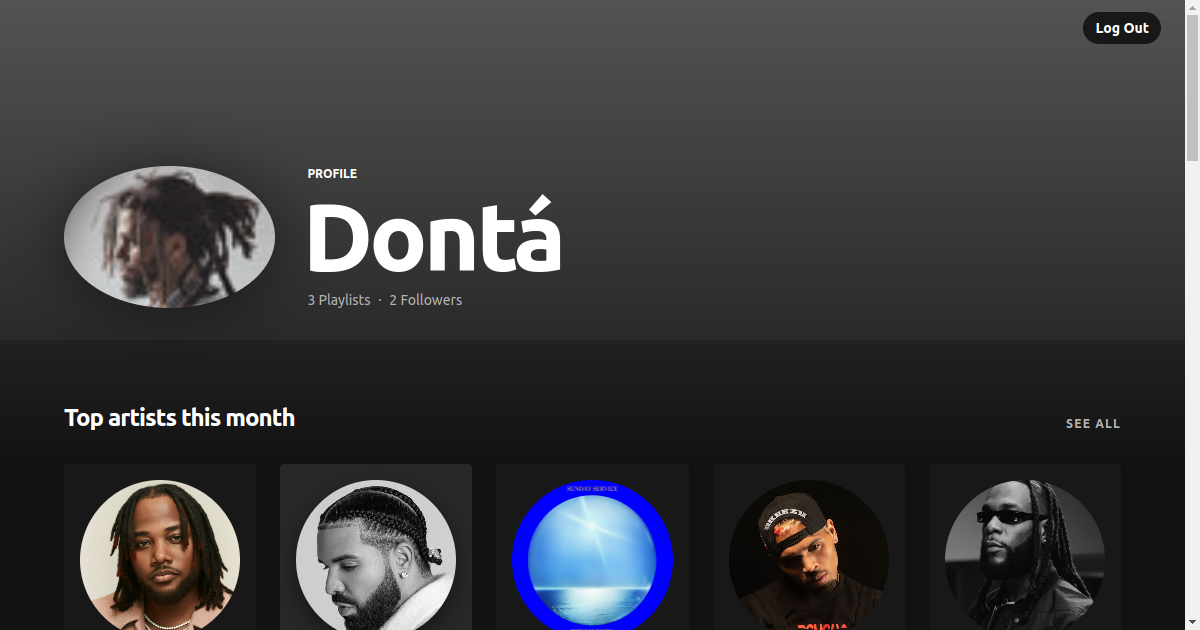
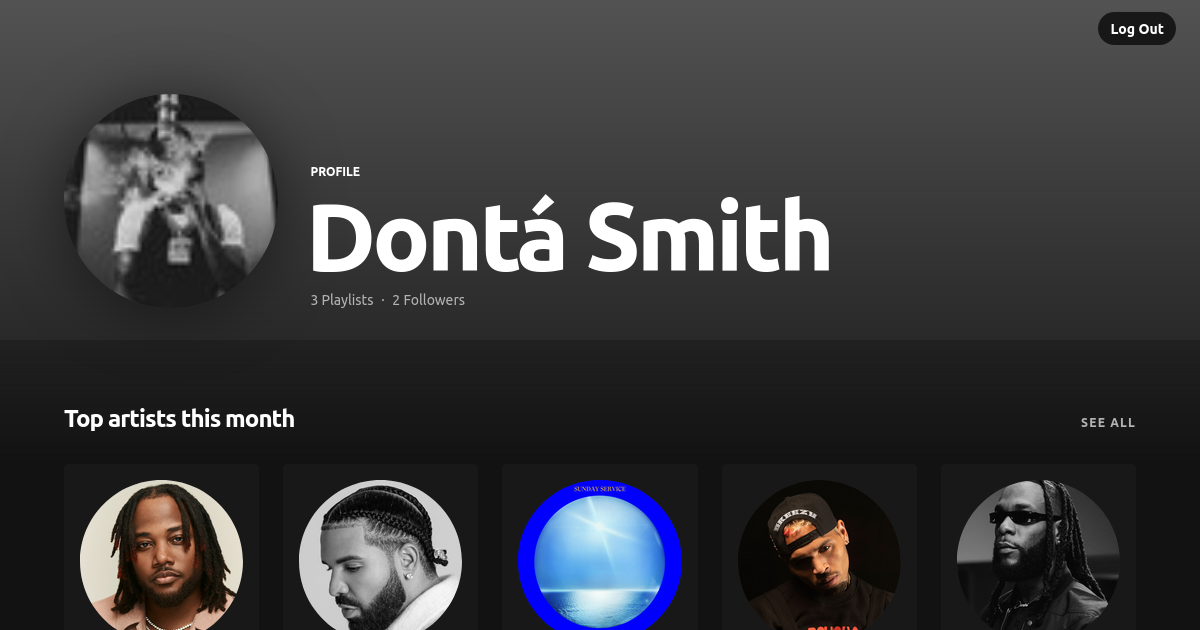
updated meta data and profile information

diff --git a/client/src/pages/Profile.js b/client/src/pages/Profile.js
@@ -77,18 +77,18 @@ const Profile = () => {
                 title="Top artists this month"
                 seeAllLink="/top-artists"
               >
-                <ArtistsGrid artists={topArtists.items.slice(0, 12)} />
+                <ArtistsGrid artists={topArtists.items.slice(0, 14)} />
               </SectionWrapper>
 
               <SectionWrapper
                 title="Top tracks this month"
                 seeAllLink="/top-tracks"
               >
-                <TrackList tracks={topTracks.items.slice(0, 12)} />
+                <TrackList tracks={topTracks.items.slice(0, 14)} />
               </SectionWrapper>
 
               <SectionWrapper title="Playlists" seeAllLink="/playlists">
-                <PlaylistsGrid playlists={playlists.items.slice(0, 12)} />
+                <PlaylistsGrid playlists={playlists.items.slice(0, 14)} />
               </SectionWrapper>
             </main>
           ) : (

diff --git a/client/src/styles/StyledHeader.js b/client/src/styles/StyledHeader.js
@@ -42,6 +42,7 @@ const StyledHeader = styled.header`
   img.header__img {
     width: 20%;
     max-width: 250px;
+    max-height: 250px;
     min-width: 120px;
     margin-right: var(--spacing-lg);
     box-shadow: 0 4px 60px rgb(0 0 0 / 50%);
